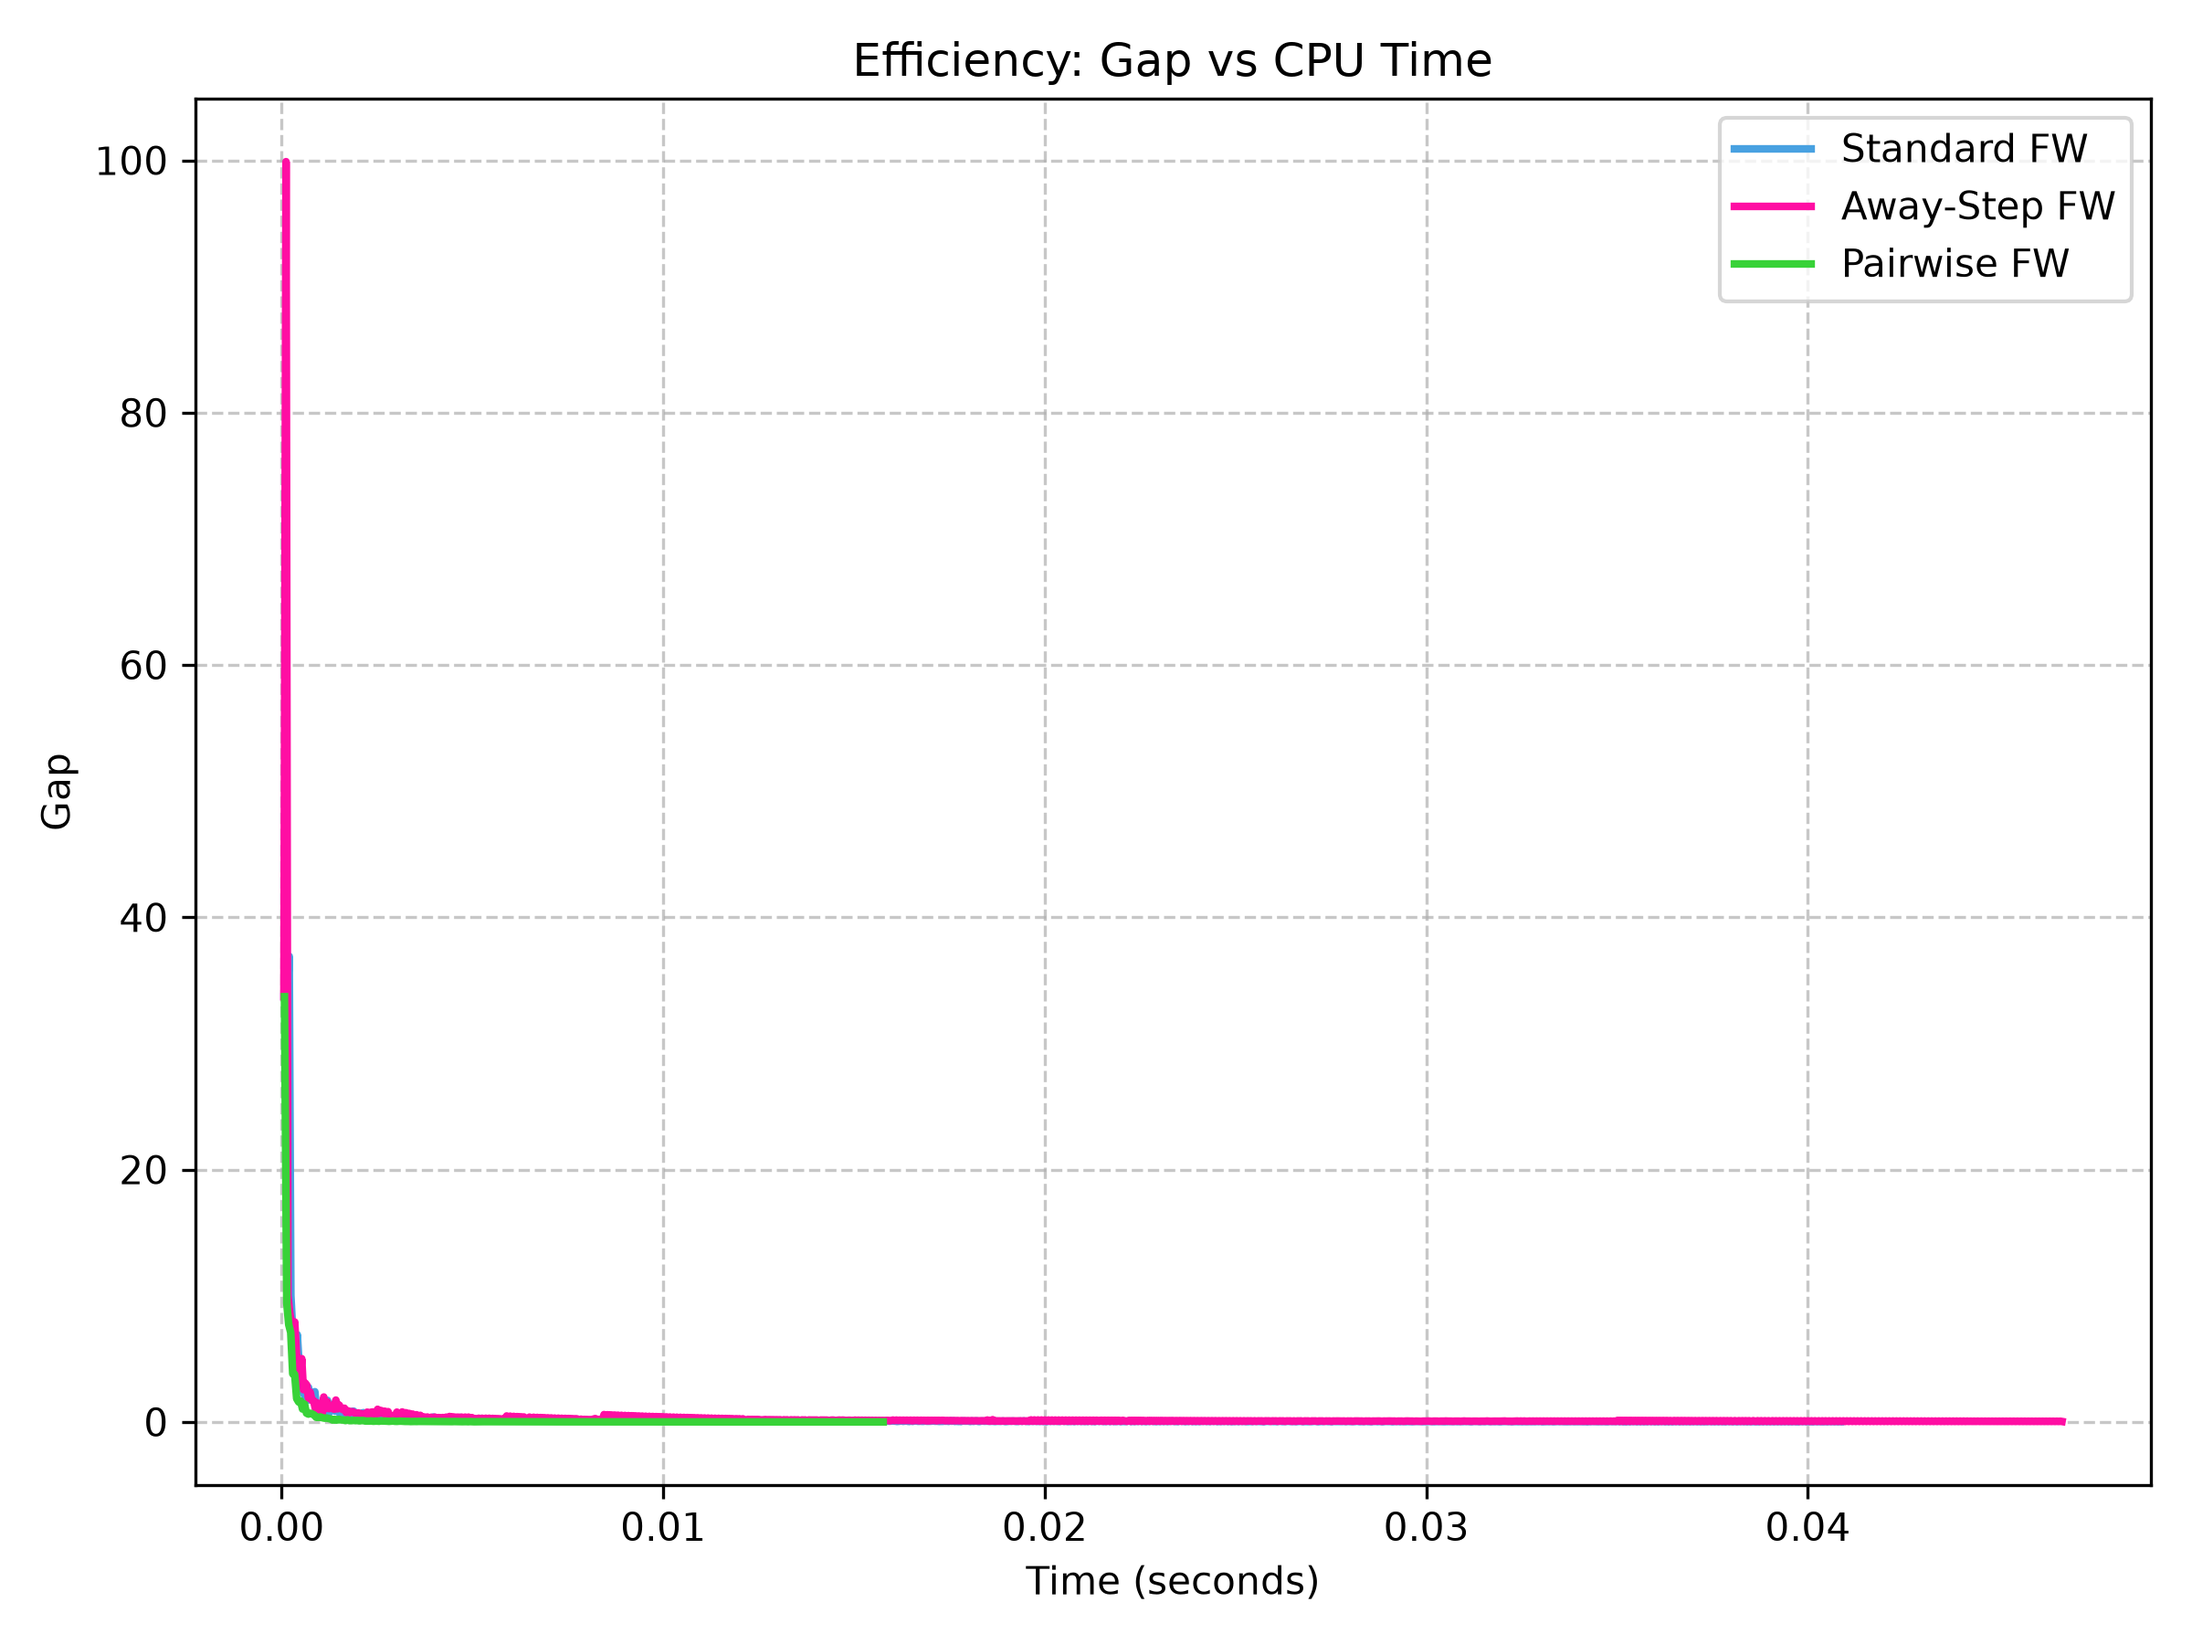
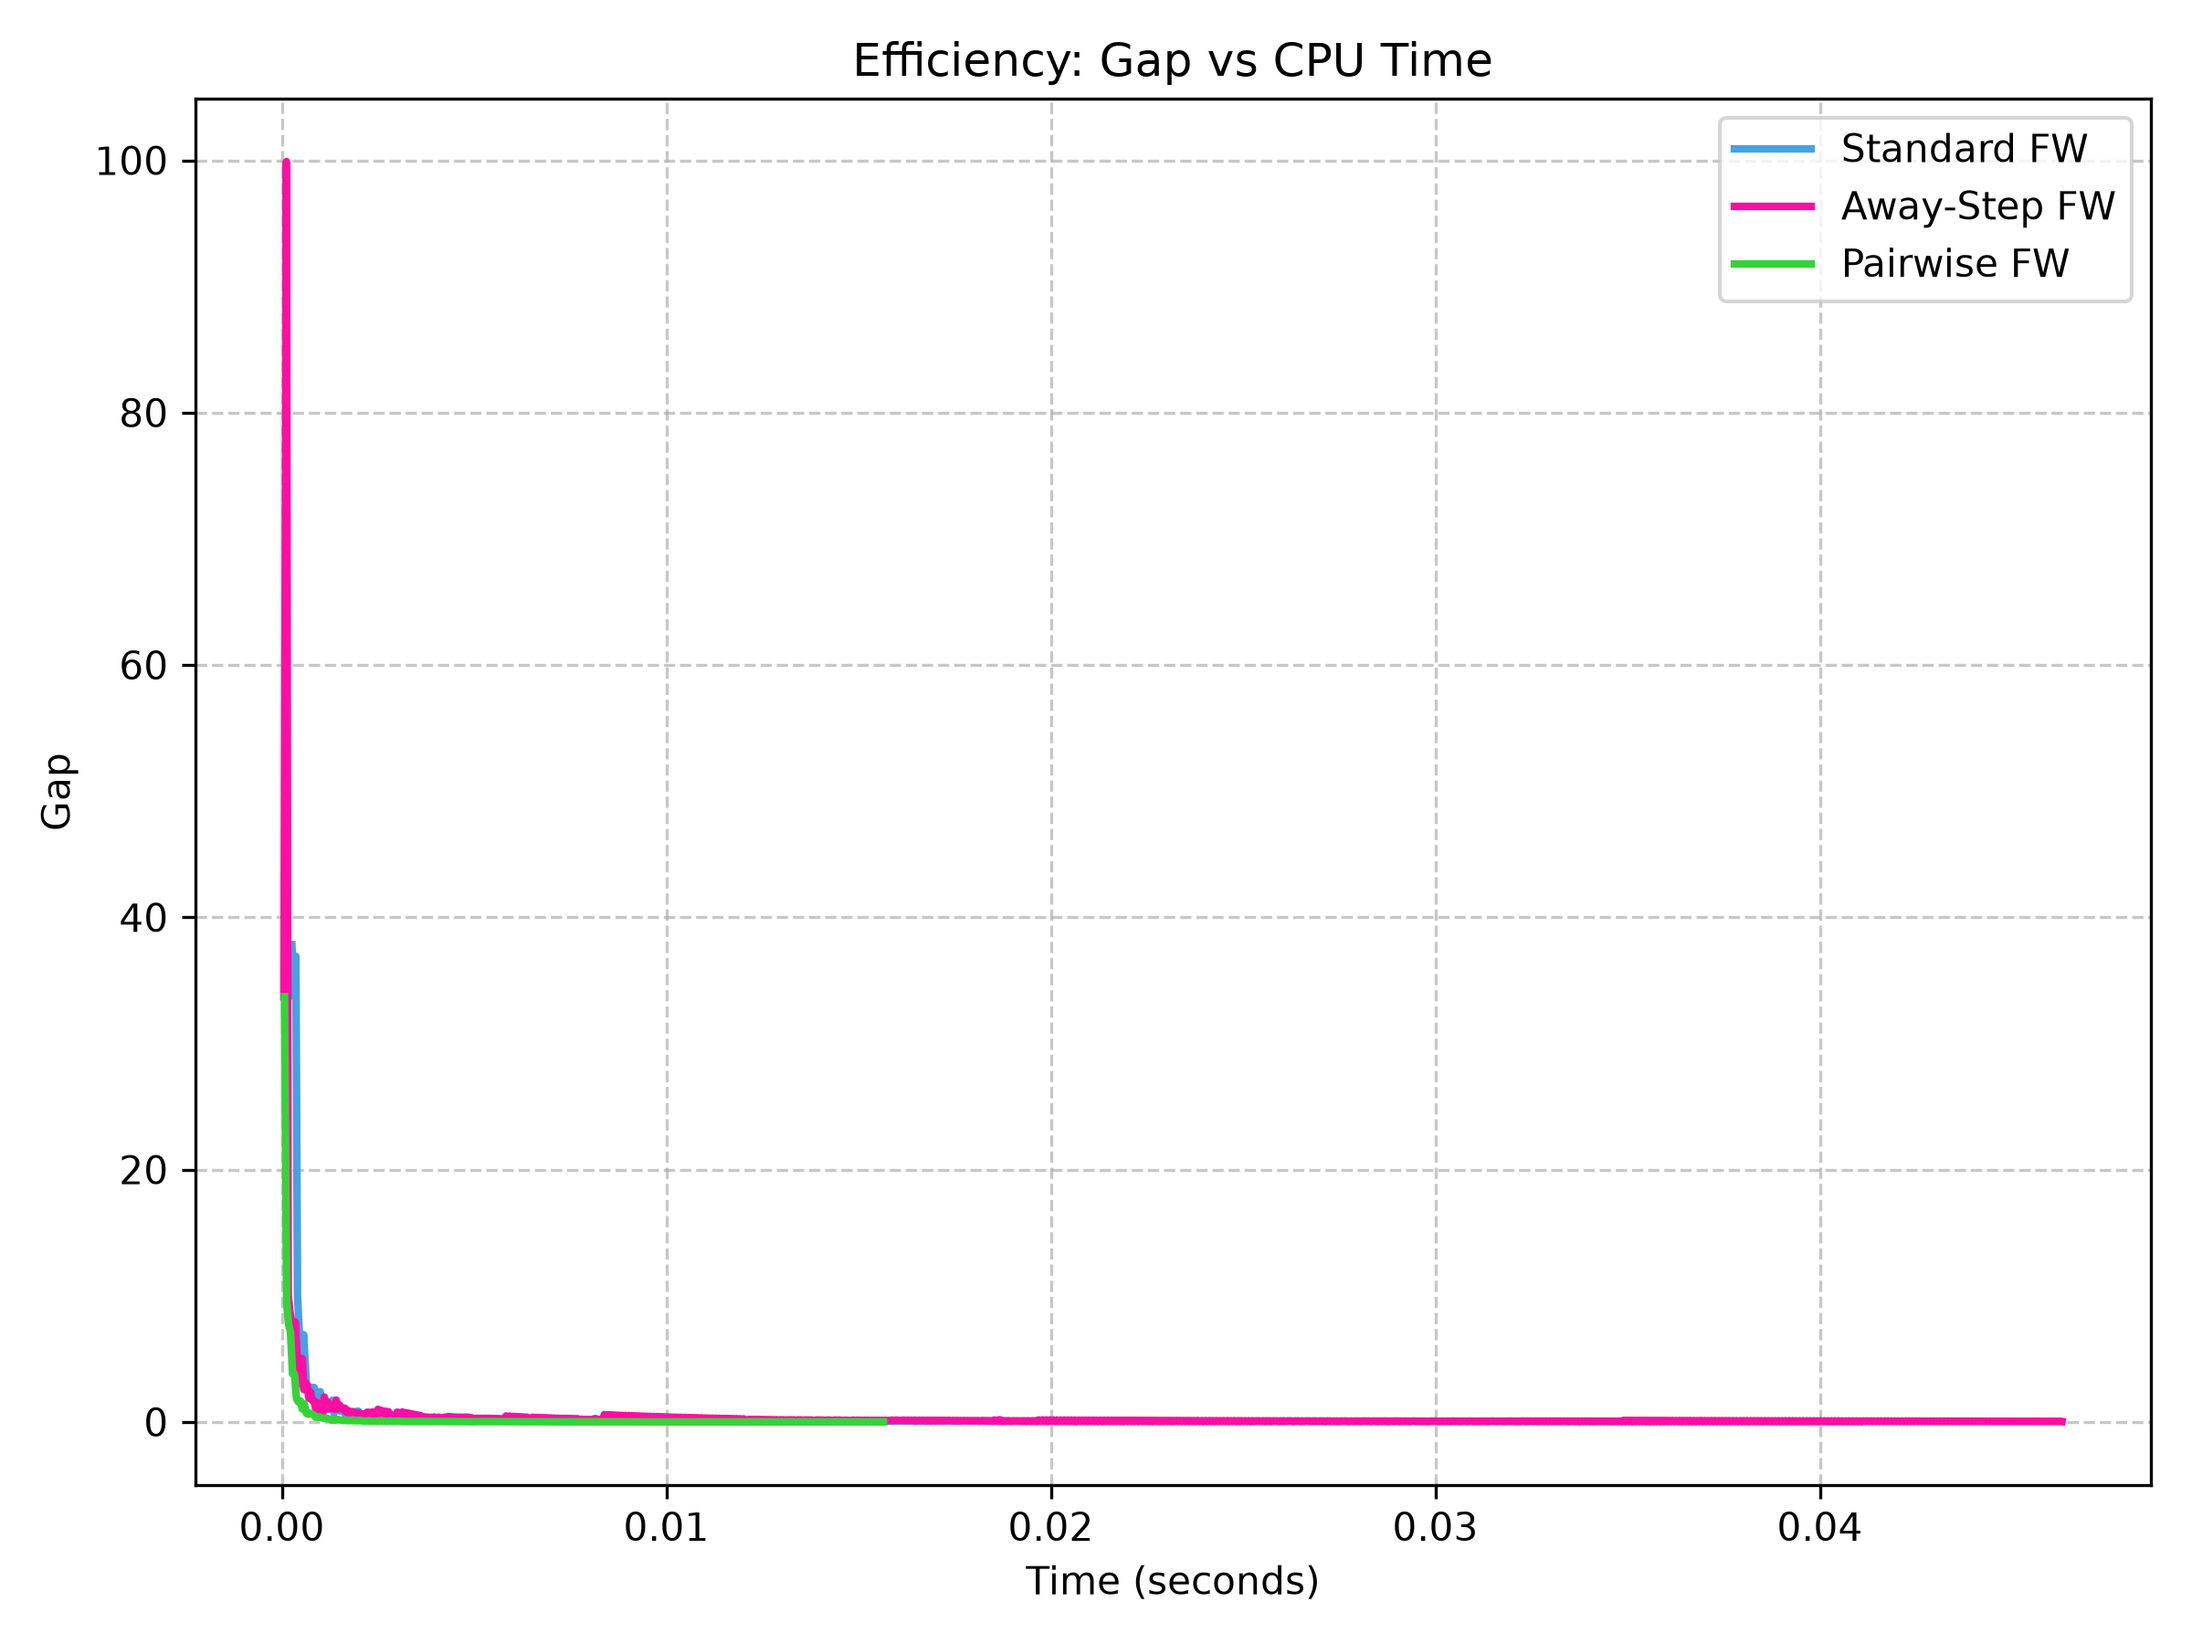
implementato dimishing step_size errore in AFW

diff --git a/main.py b/main.py
@@ -138,16 +138,21 @@ color_fw = "#48a1e1"
 color_afw = "#ff0ea3"
 color_pfw = "#38d238"
 
-plot.loss(loss_fw, loss_afw, loss_pfw, False, color_fw, color_afw, color_pfw, name_1)
-plot.duality_gap(gap_fw, gap_afw, gap_pfw, False, color_fw, color_afw, color_pfw, name_2)
-plot.loss(loss_fw, loss_afw, loss_pfw, True, color_fw, color_afw, color_pfw, f'{name_1}_log.png')
-plot.duality_gap(gap_fw, gap_afw, gap_pfw, True, color_fw, color_afw, color_pfw, f'{name_2}_log.png')
-plot.sparsity(spars_fw, spars_afw, spars_pfw, color_fw, color_afw, color_pfw, name_3)
+# plot.loss(loss_fw, loss_afw, loss_pfw, False, color_fw, color_afw, color_pfw, name_1)
+# plot.duality_gap(gap_fw, gap_afw, gap_pfw, False, color_fw, color_afw, color_pfw, name_2)
+# plot.loss(loss_fw, loss_afw, loss_pfw, True, color_fw, color_afw, color_pfw, f'{name_1}_log.png')
+# plot.duality_gap(gap_fw, gap_afw, gap_pfw, True, color_fw, color_afw, color_pfw, f'{name_2}_log.png')
+# plot.sparsity(spars_fw, spars_afw, spars_pfw, color_fw, color_afw, color_pfw, name_3)
 plot.efficiency(time_fw, time_afw, time_pfw, gap_fw, gap_afw, gap_pfw, False, color_fw, color_afw, color_pfw, name_4)
 plot.efficiency(time_fw, time_afw, time_pfw, gap_fw, gap_afw, gap_pfw, True, color_fw, color_afw, color_pfw, f'{name_4}_log.png')
-plot.mse(mse_fw, mse_afw, mse_pfw, False, color_fw, color_afw, color_pfw, name_6)
-plot.mse(mse_fw, mse_afw, mse_pfw, True, color_fw, color_afw, color_pfw, f'{name_6}_log.png')
+# plot.mse(mse_fw, mse_afw, mse_pfw, False, color_fw, color_afw, color_pfw, name_6)
+# plot.mse(mse_fw, mse_afw, mse_pfw, True, color_fw, color_afw, color_pfw, f'{name_6}_log.png')
 # plot.weight_distr(fw_weights, afw, pfw, color_fw, color_afw, color_pfw, name_5)
+
+print(len(gap_fw))
+print(len(gap_afw))
+print(len(gap_pfw))
+print(len(time_afw))
 
 if PLOT:
     plt.show()

diff --git a/algorithm.py b/algorithm.py
@@ -259,16 +259,15 @@ class AwayStepsFrankWolfeLasso:
 
             # Direction and overflow protection
             away_gap = -np.dot(grad, self.x_t - v_vec)
+            current_weight = self.weights[v_key]
 
             # Protection: if there is only one vertex, or if the FW gap is larger, take FW step
-            if len(self.weights) == 1 or fw_gap >= away_gap:
+            if len(self.weights) == 1 or fw_gap >= away_gap or current_weight >= 1.0 - 1e-10:
                 direction = s_vec - self.x_t
                 alpha_max = 1.0
                 is_fw_step = True
             else:
                 direction = self.x_t - v_vec
-                current_weight = self.weights[v_key]
-
                 denom = max(1.0 - current_weight, 1e-12)
                 alpha_max = current_weight / denom
                 is_fw_step = False

diff --git a/utils.py b/utils.py
@@ -35,7 +35,7 @@ class plot:
 
 
     #  2: Duality Gap vs Iterazioni
-    def duality_gap(gap_fw, gap_afw, gap_pfw, color_fw = "#48a1e1", color_afw = "#ff0ea3", color_pfw = "#38d238", name = 'image/2_duality_gap.png'):
+    def duality_gap(gap_fw, gap_afw, gap_pfw, log_scale = False, color_fw = "#48a1e1", color_afw = "#ff0ea3", color_pfw = "#38d238", name = 'image/2_duality_gap.png'):
         plt.figure(figsize=(8, 6))
         plt.plot(gap_fw, label='Standard FW', color=color_fw, linewidth=2)
         plt.plot(gap_afw, label='Away-Step FW', color=color_afw, linewidth=2)
